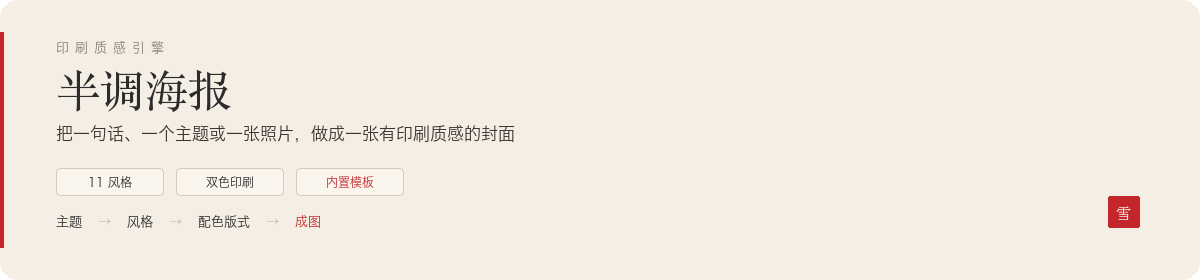
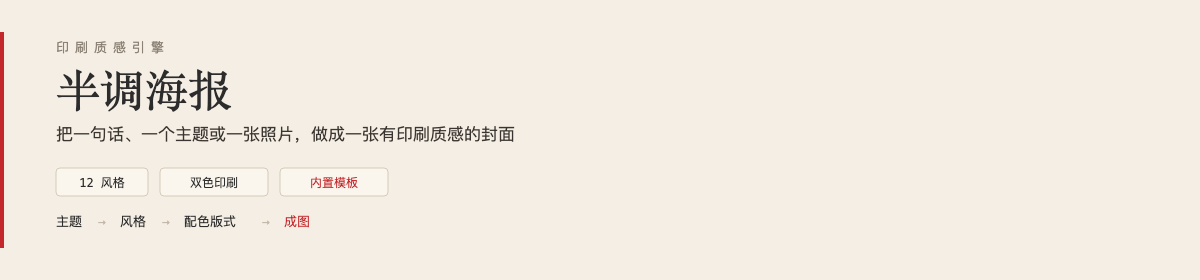
docs: 介绍页头图与成图墙
按 taxue-creative-style 的阅读顺序重做 README：无印章头图、成图标本墙、可点原图。风格表与已发布的十二种风格 + 两个变体对齐。

diff --git a/README.en.md b/README.en.md
@@ -1,92 +1,85 @@
 <p align="center">
 
-![Taxue Halftone Poster: a print-feel image engine. Turn a phrase, a theme, or a photo into a print-feel poster or cover.](./assets/readme/hero.png)
+![Taxue Halftone: a print-feel engine. Turn a phrase, a theme, or a photo into a print-feel cover.](./assets/readme/hero.png)
 
 </p>
-
-<div align="center">
-
-[中文](./README.md) · **English**
-
-# taxue-halftone · Halftone Poster
-
-**Turn a phrase, a theme, or a photo into a print-feel poster or cover.**
-
-[![Version](https://img.shields.io/badge/VERSION-1.4.2-2ea44f?style=flat-square&labelColor=333)](./CHANGELOG.md)
-[![Skills](https://img.shields.io/badge/SKILLS-1-2ea44f?style=flat-square&labelColor=333)](./SKILL.md)
-[![Stars](https://img.shields.io/github/stars/taxueseek/taxue-halftone?style=flat-square&label=STARS&color=e37f2c&labelColor=333)](https://github.com/taxueseek/taxue-halftone/stargazers)
-[![Validate](https://github.com/taxueseek/taxue-halftone/actions/workflows/validate.yml/badge.svg)](https://github.com/taxueseek/taxue-halftone/actions/workflows/validate.yml)
-[![SKILL.md](https://img.shields.io/badge/Agent-SKILL.md-214f9b?style=flat-square&labelColor=333)](./SKILL.md)
-
-</div>
 
 <p align="center">
-  <a href="#examples">Examples</a> ·
-  <a href="#eleven-styles--one-variant">Styles</a> ·
-  <a href="#how-to-use">How to use</a> ·
-  <a href="#use-cases">Use cases</a> ·
-  <a href="#basic-rules">Basic rules</a> ·
-  <a href="#validation">Validation</a> ·
-  <a href="#changelog">Changelog</a>
+  <a href="./README.md">中文</a> ·
+  <a href="#specimens">Specimens</a> ·
+  <a href="#twelve-styles--two-variants">Styles</a> ·
+  <a href="#how-it-works">How it works</a> ·
+  <a href="#how-to-use">Get started</a>
 </p>
 
-## The taxue image series
+# Taxue Halftone
 
-Part of the taxue image-generation series — pick the right engine:
+Turn a phrase, a theme, or a photo into a print-feel cover.
+
+## Image-generation family
+
+Same family — pick the right skill:
 
 | Skill | One-liner | Repo |
 |---|---|---|
-| **Taxue Creative Style** (image style engine) | 14 families, 77 variants: render by style, refine prompts, write from scratch, remember preferences | [taxue-creative-style](https://github.com/taxueseek/taxue-creative-style) |
-| **Halftone Poster** (print-feel engine) | 11 styles + 1 variant: a phrase, theme, or photo becomes a print-feel cover | **You are here** · [taxue-halftone](https://github.com/taxueseek/taxue-halftone) |
-| **Solar Polaroid** (seasonal creation engine) | Solar terms, festivals, phenology phrases become memorable posters, paper archives, polaroids | [taxue-solar-polaroid](https://github.com/taxueseek/taxue-solar-polaroid) |
+| **taxue-creative-style** (image-style engine) | 14 families, 77 variants: by-style generation, prompt rewriting, from-scratch, remember preferences | [taxue-creative-style](https://github.com/taxueseek/taxue-creative-style) |
+| **Halftone** (print-feel engine) | 12 styles + 2 variants: a phrase, a theme, or a photo into a print-feel cover | **You are here** · [taxue-halftone](https://github.com/taxueseek/taxue-halftone) |
+| **taxue-solar-polaroid** (solar-term engine) | Solar terms, festivals, phenology lines → posters, paper archives, polaroids | [taxue-solar-polaroid](https://github.com/taxueseek/taxue-solar-polaroid) |
+| **taxue-imagegen** (meta-prompt library) | Four types + four workflows + mechanical slot fill + one-shot verify | WorkBuddy-exclusive · [taxue-imagegen](https://github.com/taxueseek/taxue-imagegen) |
 
-This skill makes "print-feel" images: halftone dots, Riso, woodcut, cyanotype, aizome (indigo dyeing), photocopy aesthetics. It defaults to two colors (one dominant, one accent), or a single color on request. It decides the palette, layout, and typography for you, and outputs a complete reusable prompt.
+It makes print-feel images: halftone dots, Riso, woodcut, cyanotype, photocopy grain. Defaults to two inks (one dominant, one accent), or a single color on request. Palette, type, and layout are decided for you, then you get a complete reusable prompt.
 
-## Examples
+## Specimens
+
+Ten styles have samples. Click a title for the original.
+
+![Nine print-feel specimens: editorial, archival, Swiss, filmstack, Polish, aizome, imperfect collage, dot dissolve, Chinese paper-cut](./assets/readme/styles-grid.jpg)
+
+<p align="center">
+<a href="./examples/example-midnight-store.jpg">Midnight store</a> ·
+<a href="./examples/example-herbarium.png">Herbarium</a> ·
+<a href="./examples/example-concert-hall.jpg">Silent Order</a> ·
+<a href="./examples/example-midnight-radio.png">Midnight Radio</a> ·
+<a href="./examples/example-echo.png">Echo</a> ·
+<a href="./examples/example-aizome-near-far.jpg">Near and Far</a> ·
+<a href="./examples/example-rain-umbrella.png">Rain umbrella</a> ·
+<a href="./examples/example-dot-dissolve-lighthouse.jpg">Lighthouse in fog</a> ·
+<a href="./examples/example-paper-cut-group-sea-sky.jpg">Sea and sky</a>
+</p>
+
+The same print languages, other pictures.
+
+![More specimens: Riso zine, dot dissolve, imperfect collage, editorial, aizome](./assets/readme/more-grid.jpg)
+
+<p align="center">
+<a href="./examples/example-seashell.png">Sea Breeze</a> ·
+<a href="./examples/example-dot-dissolve-jellyfish.jpg">Lantern of the deep</a> ·
+<a href="./examples/example-dot-dissolve-fenghuaxueyue.jpg">Feng Hua Xue Yue</a> ·
+<a href="./examples/example-night-walk.png">Night walk</a> ·
+<a href="./examples/example-night-ride.png">Night ride</a> ·
+<a href="./examples/example-break-limits.jpg">Break Limits</a> ·
+<a href="./examples/example-still-open.jpg">Still Open</a> ·
+<a href="./examples/example-solitude.jpg">SOLITUDE</a> ·
+<a href="./examples/example-aizome-blue-knight.jpg">Blue Knight</a> ·
+<a href="./examples/example-last-kilometer.jpg">The Last Kilometer</a> ·
+<a href="./examples/README.md">All originals</a>
+</p>
 
 > Images live in the `examples/` directory and are generated by this skill (see [ASSET-LICENSE.md](./ASSET-LICENSE.md)). Ten of the twelve styles and both variants have samples — imperfect collage and dot dissolve three each, editorial five (including two bilingual variants), aizome two, one for the rest; tribute, polka and both variants (dot paper-cut, aizome photogram) have none yet.
-
-| Midnight store (Vintage editorial) | Herbarium (Archival) | Silent Order (Swiss) |
-|:---:|:---:|:---:|
-| <img src="./examples/example-midnight-store.jpg" alt="Blue and orange midnight convenience store halftone poster" width="280"> | <img src="./examples/example-herbarium.png" alt="Green herbarium specimen print poster" width="280"> | <img src="./examples/example-concert-hall.jpg" alt="Red architectural photography exhibition poster" width="280"> |
-
-| Midnight Radio (Filmstack) | Echo (Polish) | Sea Breeze (Riso zine) |
-|:---:|:---:|:---:|
-| <img src="./examples/example-midnight-radio.png" alt="Blue film-stack midnight radio poster" width="280"> | <img src="./examples/example-echo.png" alt="Black high-contrast echo poster" width="280"> | <img src="./examples/example-seashell.png" alt="Green and violet seashell zine cover" width="280"> |
-
-| Rain umbrella (Imperfect collage) | Night walk (Imperfect collage) | Night ride (Imperfect collage) |
-|:---:|:---:|:---:|
-| <img src="./examples/example-rain-umbrella.png" alt="Blue and black torn-paper collage rain umbrella poster" width="280"> | <img src="./examples/example-night-walk.png" alt="Blue torn-paper collage city night walk poster" width="280"> | <img src="./examples/example-night-ride.png" alt="Blue torn-paper collage night ride poster" width="280"> |
-
-| Lighthouse in fog (Dot dissolve) | Lantern of the deep (Dot dissolve) | Feng Hua Xue Yue (Dot dissolve) |
-|:---:|:---:|:---:|
-| <img src="./examples/example-dot-dissolve-lighthouse.jpg" alt="Blue and orange dot-matrix lighthouse-in-fog poster" width="280"> | <img src="./examples/example-dot-dissolve-jellyfish.jpg" alt="Blue and orange-red dot-matrix jellyfish poster" width="280"> | <img src="./examples/example-dot-dissolve-fenghuaxueyue.jpg" alt="Blue-black mountains with vermilion moon dot-matrix poster" width="280"> |
-
-| Sea and sky (Chinese paper-cut) | Break Limits (Vintage editorial) | The Last Kilometer (editorial, bilingual variant) |
-|:---:|:---:|:---:|
-| <img src="./examples/example-paper-cut-group-sea-sky.jpg" alt="Charcoal paper-cut sea, sky and fish with one pink jump-color member, Chinese paper-cut poster" width="280"> | <img src="./examples/example-break-limits.jpg" alt="Blue and red two-ink halftone Break Limits poster" width="280"> | <img src="./examples/example-last-kilometer.jpg" alt="Blue and orange halftone The Last Kilometer bilingual poster" width="280"> |
-
-| Still Open (editorial, bilingual variant) | Solitude (Vintage editorial) | Near and Far (Aizome) |
-|:---:|:---:|:---:|
-| <img src="./examples/example-still-open.jpg" alt="Deep blue and orange halftone Still Open convenience store bilingual poster" width="280"> | <img src="./examples/example-solitude.jpg" alt="Deep blue halftone Solitude poster" width="280"> | <img src="./examples/example-aizome-near-far.jpg" alt="Indigo aizome Near and Far poster" width="280"> |
-
-| Blue Knight (Aizome) |  |  |
-|:---:|:---:|:---:|
-| <img src="./examples/example-aizome-blue-knight.jpg" alt="Indigo aizome Blue Knight speed poster" width="280"> |  |  |
 
 ## Twelve styles + two variants
 
 | Style | Swatch | What it looks like |
 |---|---|---|
-| **Editorial** | ![editorial](./swatches/editorial.svg) | Blue + terracotta, halftone dots, one dominant object with type crossing over it. The default. Built-in concise meta prompt (topic is the only required input) |
-| **Polish** | ![polish](./swatches/polish.svg) | Single-color high contrast, the type is the image, clean and sharp |
-| **Swiss** | ![swiss](./swatches/swiss.svg) | Red + black, clear photo tones, solid type, generous white space, restrained |
-| **Riso zine** | ![riso_zine](./swatches/riso_zine.svg) | Green + violet, small subject, lots of paper, like a hand-printed zine |
-| **Filmstack** | ![filmstack](./swatches/filmstack.svg) | Blue + orange, coarse dots as the graphic itself, layered sheets in a wide frame |
-| **Archival** | ![archival](./swatches/archival.svg) | Green + black, title + one tidy plate + multi-column notes, like a specimen field note |
-| **Imperfect collage** | ![imperfect_collage](./swatches/imperfect_collage.svg) | Warm-white paper + large spot-color field + B/W halftone subject, torn edges as reveal, image above / info card below, intentionally imperfect |
-| **Dot dissolve** | ![dot_dissolve](./swatches/dot_dissolve.svg) | Aubergine + signal red, retro silkscreen round-dot matrix, the subject deconstructs into dots, grain and flowing ripples, bold type fused with the dot field, built-in meta prompt (topic is the only required input) |
-| **Chinese paper-cut** | ![paper_cut_group](./swatches/paper_cut_group.svg) | Charcoal + vermilion, layered knife-cut silhouettes with white negative-space cutout details, one jump-color exception member, image above / info card below, built-in meta prompt (topic is the only required input) |
+| **Editorial** (editorial) | ![editorial](./swatches/editorial.svg) | Blue + terracotta, halftone dots, one dominant object with type crossing over it. The default. Built-in concise meta prompt (topic is the only required input) |
+| **Polish** (polish) | ![polish](./swatches/polish.svg) | Single-color high contrast, the type is the image, clean and sharp |
+| **Swiss** (swiss) | ![swiss](./swatches/swiss.svg) | Red + black, clear photo tones, solid type, generous white space, restrained |
+| **Riso zine** (riso_zine) | ![riso_zine](./swatches/riso_zine.svg) | Green + violet, small subject, lots of paper, like a hand-printed zine |
+| **Filmstack** (filmstack) | ![filmstack](./swatches/filmstack.svg) | Blue + orange, coarse dots as the graphic itself, layered sheets in a wide frame |
+| **Archival** (archival) | ![archival](./swatches/archival.svg) | Green + black, title + one tidy plate + multi-column notes, like a specimen field note |
+| **Imperfect collage** (imperfect_collage) | ![imperfect_collage](./swatches/imperfect_collage.svg) | Warm-white paper + large spot-color field + B/W halftone subject, torn edges as reveal, image above / info card below, intentionally imperfect |
+| **Dot dissolve** (dot_dissolve) | ![dot_dissolve](./swatches/dot_dissolve.svg) | Aubergine + signal red, retro silkscreen round-dot matrix, the subject deconstructs into dots, grain and flowing ripples, bold type fused with the dot field, built-in meta prompt (topic is the only required input) |
+| **Chinese paper-cut** (paper_cut_group) | ![paper_cut_group](./swatches/paper_cut_group.svg) | Charcoal + vermilion, layered knife-cut silhouettes with white negative-space cutout details, one jump-color exception member, image above / info card below, built-in meta prompt (topic is the only required input) |
 | **Dot paper-cut** (paper_cut_halftone, variant) | ![paper_cut_halftone](./swatches/paper_cut_halftone.svg) | Main ink + paper + one muted jump color, a hybrid of dot dissolve and Chinese paper-cut — window-flower contours filled with coarse round halftone dots, open shadows, three palette options, image above / info card below, built-in meta prompt (topic is the only required input) |
 | **Aizome** (aizome) | ![aizome](./swatches/aizome.svg) | Absolutely pure white digital plane + deep indigo + cobalt, cyanotype-style flat-value silhouette, dye tonal depth and woodblock hatching live only inside the blue shapes, headline + subline vary across a nine-direction grid, built-in meta prompt (topic is the only required input) |
 | **Aizome photogram** (aizome_photogram, variant) | ![aizome_photogram](./swatches/aizome_photogram.svg) | Anti-cliché aizome: indigo field with white photogram silhouettes of modern objects (skateboard / headphones / sneakers) exposed flat on the sheet, water-wash bleed only in blue zones, exhibition-case temperament, built-in meta prompt (object required) |
@@ -95,9 +88,15 @@ This skill makes "print-feel" images: halftone dots, Riso, woodcut, cyanotype, a
 
 Name the style you want; if you don't, it picks one from your subject and intent.
 
-## How to use
+## How it works
 
-Install:
+<p align="center">
+  <img src="./assets/readme/workflow.svg" width="100%" alt="From a phrase to a print-feel cover: hear the intent, pick a style, lock ink and layout, generate and check">
+</p>
+
+Input is your intent. Output is a prompt the model can run. Whether the picture works depends on four things: whether it heard you, whether the style is right, whether ink and type/image volume are locked, and whether the result was checked against the six axes.
+
+## How to use
 
 ```bash
 npx skills add taxueseek/taxue-halftone
@@ -122,7 +121,7 @@ You can also type `/taxue-halftone` to trigger it. Each run returns three things
 
 ## Basic rules
 
-- **At most two colors**: one dominant color carries the subject and headline; one accent color has exactly one job (date, annotation, marking one object). Never sprinkle the accent color around as decoration.
+- **Disciplined palettes**: the default is two inks — a dominant color carries the subject and headline; one accent color has exactly one job (date, annotation, marking one object), never sprinkled around as decoration. Color-rich styles (tribute, polka) follow their own family rules: every color has a duty, hierarchy is explicit, even splitting is banned.
 - **Paper is part of the image**: the ground is not a color. Light paper with dark ink, dark paper with light type, both work.
 - **Type and image take turns**: when type is loud, the image steps back, and vice versa. Never both at full volume.
 - **Print feel comes from dots, not aging**: halftone and Riso do not mean yellowed, sepia, or nostalgic by default.
@@ -148,15 +147,14 @@ scripts/render_style_card.py <style_id> # regenerate the swatch card
 
 ## Changelog
 
-- **v1.4.2** (2026-09-05): All style display names unified to natural language ("XX style", style IDs unchanged); the "quick path" wording became "concise flow"; all swatch cards regenerated; polka (new mechanism polka_field + new behavior field) and aizome photogram (aizome variant) enter the release line for the first time (developed at 1.4.0 but never shipped with 1.2.0–1.4.1); the source-of-truth tree and the release repo are aligned; evaluations up to 14. See [CHANGELOG.md](./CHANGELOG.md).
-
-- **v1.4.1** (2026-09-04): Sample gallery expanded — six new real samples: Break Limits, The Last Kilometer (editorial, bilingual variant), Still Open (editorial, bilingual variant), Solitude (editorial), Near and Far and Blue Knight (aizome); the aizome style now has samples; all samples stripped of generation metadata (EXIF tracking fields and AI labels), pixels untouched.
-- **v1.4.0** (2026-09-04): Punctuation hard rules applied to all built-in meta prompts; editorial concise meta prompt (classic halftone, topic as the only required input) plus bilingual variant (still open / 营业中); new style 10 `aizome` (indigo dye poster) and style 11 `tribute` (classic tribute); design system gains `ground_pure_white`; evaluations up to 11 cases. See [CHANGELOG.md](./CHANGELOG.md).
-- **v1.3.0** (2026-09-03): Reference-creation mode (§1.6) — when the user provides a reference image, first classify its role: same fingerprint locks the matching style's six axes as the starting point; mechanism migration takes 2–4 visible mechanisms plus a hollowing-out test. See [CHANGELOG.md](./CHANGELOG.md).
-- **v1.2.0** (2026-09-03): Image-source diagnosis (§1.5) — five-line diagnostic card from the photo, then axis values from a feature mapping table; four-domain propositions; Chinese display glyph quick reference (§4.5, 6 families); ablation tooling `ablate.py` / `checker.py`. See [CHANGELOG.md](./CHANGELOG.md).
-- **v1.1.0** (2026-09-03): New styles 7–9 — `imperfect_collage`, `dot_dissolve`, `paper_cut_group` (Chinese paper-cut) — plus a seventh print mechanism `paper_cut_collage`, each with a built-in meta prompt; also the variant `paper_cut_halftone` (Dot paper-cut — a hybrid of dot dissolve and Chinese paper-cut); four real samples (Lighthouse in Fog, Lantern of the Deep, Feng Hua Xue Yue, Sea and Sky — the last one for Chinese paper-cut); new "Randomness and creativity" section with model recommendations; renamed styles — Paper-cut group → Chinese paper-cut, Paper-cut halftone → Dot paper-cut (now defined as a variant), style IDs unchanged. See [CHANGELOG.md](./CHANGELOG.md).
-- **v1.0.0** (2026-09-01): Initial release. Six styles, machine validation, and evaluation cases. See [CHANGELOG.md](./CHANGELOG.md).
+- **v1.4.2** (2026-09-05): Style names unified; polka and aizome photogram enter the release line. See [CHANGELOG.md](./CHANGELOG.md).
+- **v1.4.1** (2026-09-04): Six new real samples; generation metadata stripped.
+- **v1.4.0** (2026-09-04): Punctuation hard rules; new styles `aizome` and `tribute`. See [CHANGELOG.md](./CHANGELOG.md).
+- **v1.3.0** (2026-09-03): Reference-creation mode. See [CHANGELOG.md](./CHANGELOG.md).
+- **v1.2.0** (2026-09-03): Image-source diagnosis, four-domain propositions, Chinese display glyph quick reference. See [CHANGELOG.md](./CHANGELOG.md).
+- **v1.1.0** (2026-09-03): New styles imperfect collage, dot dissolve, Chinese paper-cut, and the dot paper-cut variant. See [CHANGELOG.md](./CHANGELOG.md).
+- **v1.0.0** (2026-09-01): Initial release. See [CHANGELOG.md](./CHANGELOG.md).
 
 ## License
 
-Code and skill content are MIT-licensed ([LICENSE](./LICENSE)); images in `examples/` follow [ASSET-LICENSE.md](./ASSET-LICENSE.md) and are not covered by MIT.
+Code and skill content are MIT-licensed ([LICENSE](./LICENSE)); images in `examples/` and `assets/readme/` follow [ASSET-LICENSE.md](./ASSET-LICENSE.md) and are not covered by MIT.

diff --git a/README.md b/README.md
@@ -4,31 +4,17 @@
 
 </p>
 
-<div align="center">
-
-**中文** · [English](./README.en.md)
-
-# taxue-halftone · 半调海报
-
-**把一句话、一个主题或一张照片，做成一张有印刷质感的封面。**
-
-[![Version](https://img.shields.io/badge/VERSION-1.4.2-2ea44f?style=flat-square&labelColor=333)](./CHANGELOG.md)
-[![Skills](https://img.shields.io/badge/SKILLS-1-2ea44f?style=flat-square&labelColor=333)](./SKILL.md)
-[![Stars](https://img.shields.io/github/stars/taxueseek/taxue-halftone?style=flat-square&label=STARS&color=e37f2c&labelColor=333)](https://github.com/taxueseek/taxue-halftone/stargazers)
-[![Validate](https://github.com/taxueseek/taxue-halftone/actions/workflows/validate.yml/badge.svg)](https://github.com/taxueseek/taxue-halftone/actions/workflows/validate.yml)
-[![SKILL.md](https://img.shields.io/badge/Agent-SKILL.md-214f9b?style=flat-square&labelColor=333)](./SKILL.md)
-
-</div>
-
 <p align="center">
-  <a href="#示例作品">示例作品</a> ·
-  <a href="#十一种风格">风格</a> ·
-  <a href="#怎么用">怎么用</a> ·
-  <a href="#适合做什么">适合做什么</a> ·
-  <a href="#基本规矩">基本规矩</a> ·
-  <a href="#工程校验">工程校验</a> ·
-  <a href="#更新记录">更新记录</a>
+  <a href="./README.en.md">English</a> ·
+  <a href="#成图标本">成图</a> ·
+  <a href="#十二种风格--两个变体">风格</a> ·
+  <a href="#怎么工作">怎么工作</a> ·
+  <a href="#开始使用">开始使用</a>
 </p>
+
+# 踏雪半调海报
+
+把一句话、一个主题或一张照片，做成一张有印刷质感的封面。
 
 ## 生图技能家族
 
@@ -37,42 +23,49 @@
 | 技能 | 一句话 | 仓库 |
 |---|---|---|
 | **踏雪创意风格**（影像风格引擎） | 14 个家族、77 个变体：按风格出图、改提示词、从零写、记住偏好 | [taxue-creative-style](https://github.com/taxueseek/taxue-creative-style) |
-| **半调海报**（印刷质感引擎） | 11 种风格 + 1 个变体：一句话、一个主题或一张照片，做成印刷感封面 | **你在这里** · [taxue-halftone](https://github.com/taxueseek/taxue-halftone) |
+| **半调海报**（印刷质感引擎） | 12 种风格 + 2 个变体：一句话、一个主题或一张照片，做成印刷感封面 | **你在这里** · [taxue-halftone](https://github.com/taxueseek/taxue-halftone) |
 | **节气拍立得**（节气创作引擎） | 节气、节日、物候短句，推出有记忆点的海报、纸本档案与拍立得 | [taxue-solar-polaroid](https://github.com/taxueseek/taxue-solar-polaroid) |
+| **踏雪生图**（元提示词库） | 四种类型 + 四种工作流 + 机械填槽 + 一次验收 | WorkBuddy 专属 · [taxue-imagegen](https://github.com/taxueseek/taxue-imagegen) |
 
-它做的是「印刷感」的图：半调网点、Riso 孔版、木刻、蓝晒、复印机那种质感。默认双色（一主一辅），也可以只用单色，具体怎么配色、字放哪，它都会配好，最后给出一份完整可复用的提示词。
+它做的是「印刷感」的图：半调网点、Riso 孔版、木刻、蓝晒、复印机那种质感。默认双色（一主一辅），也可以只用单色。配色、字放哪，它会配好，最后给你一份完整可复用的提示词。
 
-## 示例作品
+## 成图标本
+
+十种风格各有样张。点题名看原图。
+
+![九种印刷风格成图：复古编辑、标本档案、瑞士海报、胶片叠层、波兰海报、蓝染、不完美印刷拼贴、点阵解构、中式剪纸](./assets/readme/styles-grid.jpg)
+
+<p align="center">
+<a href="./examples/example-midnight-store.jpg">深夜便利店</a> ·
+<a href="./examples/example-herbarium.png">标本档案</a> ·
+<a href="./examples/example-concert-hall.jpg">无声的秩序</a> ·
+<a href="./examples/example-midnight-radio.png">午夜电台</a> ·
+<a href="./examples/example-echo.png">回声</a> ·
+<a href="./examples/example-aizome-near-far.jpg">咫尺天涯</a> ·
+<a href="./examples/example-rain-umbrella.png">雨天雨伞</a> ·
+<a href="./examples/example-dot-dissolve-lighthouse.jpg">雾中灯塔</a> ·
+<a href="./examples/example-paper-cut-group-sea-sky.jpg">海阔天空</a>
+</p>
+
+同一套印刷语言，还可以长成这些样子。
+
+![更多成图：孔版小册、点阵解构、不完美印刷拼贴、复古编辑、蓝染](./assets/readme/more-grid.jpg)
+
+<p align="center">
+<a href="./examples/example-seashell.png">海风集</a> ·
+<a href="./examples/example-dot-dissolve-jellyfish.jpg">深海之灯</a> ·
+<a href="./examples/example-dot-dissolve-fenghuaxueyue.jpg">风花雪月</a> ·
+<a href="./examples/example-night-walk.png">城市夜归</a> ·
+<a href="./examples/example-night-ride.png">夜骑</a> ·
+<a href="./examples/example-break-limits.jpg">突破极限</a> ·
+<a href="./examples/example-still-open.jpg">营业中</a> ·
+<a href="./examples/example-solitude.jpg">SOLITUDE</a> ·
+<a href="./examples/example-aizome-blue-knight.jpg">蓝色骑士</a> ·
+<a href="./examples/example-last-kilometer.jpg">最后一公里</a> ·
+<a href="./examples/README.md">全部原图</a>
+</p>
 
 > 图片放在 `examples/` 目录，由技能实际出图产出（版权见 [ASSET-LICENSE.md](./ASSET-LICENSE.md)）。十二种风格与两个变体中十个有示例图：不完美印刷拼贴与点阵解构各有三张，复古编辑五张（含双语变体两张），蓝染两张，其余风格各一张；经典致敬、波普波点与两种变体（点阵剪纸、物影蓝晒）暂无样张。
-
-| 深夜便利店（复古编辑） | 标本档案（标本档案） | 无声的秩序（瑞士海报） |
-|:---:|:---:|:---:|
-| <img src="./examples/example-midnight-store.jpg" alt="蓝橙双色深夜便利店半调海报" width="280"> | <img src="./examples/example-herbarium.png" alt="绿色标本档案印刷海报" width="280"> | <img src="./examples/example-concert-hall.jpg" alt="红色摄影展海报无声的秩序" width="280"> |
-
-| 午夜电台（胶片叠层） | 回声（波兰海报） | 海风集（孔版小册） |
-|:---:|:---:|:---:|
-| <img src="./examples/example-midnight-radio.png" alt="蓝色胶片叠层午夜电台海报" width="280"> | <img src="./examples/example-echo.png" alt="黑色高反差回声海报" width="280"> | <img src="./examples/example-seashell.png" alt="绿色紫色海风集封面" width="280"> |
-
-| 雨天雨伞（不完美印刷拼贴） | 城市夜归（不完美印刷拼贴） | 夜骑（不完美印刷拼贴） |
-|:---:|:---:|:---:|
-| <img src="./examples/example-rain-umbrella.png" alt="蓝黑撕纸拼贴雨天雨伞海报" width="280"> | <img src="./examples/example-night-walk.png" alt="蓝色撕纸拼贴城市夜归海报" width="280"> | <img src="./examples/example-night-ride.png" alt="蓝色撕纸拼贴夜骑海报" width="280"> |
-
-| 雾中灯塔（点阵解构） | 深海之灯（点阵解构） | 风花雪月（点阵解构） |
-|:---:|:---:|:---:|
-| <img src="./examples/example-dot-dissolve-lighthouse.jpg" alt="蓝色与橙色点阵解构雾中灯塔海报" width="280"> | <img src="./examples/example-dot-dissolve-jellyfish.jpg" alt="蓝色与橙红点阵解构深海之灯水母海报" width="280"> | <img src="./examples/example-dot-dissolve-fenghuaxueyue.jpg" alt="蓝黑山水与朱红月位点阵解构风花雪月海报" width="280"> |
-
-| 海阔天空（中式剪纸） | 突破极限（复古编辑） | 最后一公里（复古编辑·双语变体） |
-|:---:|:---:|:---:|
-| <img src="./examples/example-paper-cut-group-sea-sky.jpg" alt="蓝黑剪纸山海鱼群与粉色跳色中式剪纸海报" width="280"> | <img src="./examples/example-break-limits.jpg" alt="蓝红双色半调突破极限海报" width="280"> | <img src="./examples/example-last-kilometer.jpg" alt="蓝橙双色半调最后一公里双语海报" width="280"> |
-
-| 营业中（复古编辑·双语变体） | SOLITUDE（复古编辑） | 咫尺天涯（蓝染） |
-|:---:|:---:|:---:|
-| <img src="./examples/example-still-open.jpg" alt="深蓝橙半调营业中便利店双语海报" width="280"> | <img src="./examples/example-solitude.jpg" alt="深蓝半调SOLITUDE空旷海报" width="280"> | <img src="./examples/example-aizome-near-far.jpg" alt="靛蓝蓝染咫尺天涯海报" width="280"> |
-
-| 蓝色骑士（蓝染） |  |  |
-|:---:|:---:|:---:|
-| <img src="./examples/example-aizome-blue-knight.jpg" alt="靛蓝蓝染蓝色骑士极速抵达海报" width="280"> |  |  |
 
 ## 十二种风格 + 两个变体
 
@@ -95,9 +88,15 @@
 
 想用哪个风格，直接点名；不说风格它会按主题和用途选。
 
-## 怎么用
+## 怎么工作
 
-安装：
+<p align="center">
+  <img src="./assets/readme/workflow.svg" width="100%" alt="从一句话到印刷感封面：听清意图、选定风格、配色版式、出图自检">
+</p>
+
+输入是你的意图，输出是能直接出图的提示词。图好不好，取决于四件事：有没有听清你要什么、风格选得对不对、墨色和字图音量有没有锁死、出图后有没有对照六轴检查。
+
+## 开始使用
 
 ```bash
 npx skills add taxueseek/taxue-halftone
@@ -122,7 +121,7 @@ npx skills add taxueseek/taxue-halftone
 
 ## 基本规矩
 
-- **最多双色**：一个主色管主体和标题，一个辅色只做一件事（日期、注释、勾一个物件），不洒满页当装饰
+- **配色讲纪律**：默认限墨双色——主色管主体和标题，辅色只做一件事（日期、注释、勾一个物件），不洒满页当装饰；色彩丰富的风格（经典致敬、波普波点）按各自族规执行：每色有职务、主次分明、禁止平均分配
 - **纸是画面的一部分**：底色不算颜色，浅色纸配深色、深纸配浅字都算好
 - **字和图分主次**：字大声图就退，图大声字就退，不两个都抢
 - **印刷感靠网点不靠做旧**：用半调、Riso 不等于要泛黄、怀旧
@@ -148,15 +147,14 @@ scripts/render_style_card.py <style_id> # 重新生成色卡图
 
 ## 更新记录
 
-- **v1.4.2**（2026-09-05）：全部风格名统一为自然语言「XX风格」（style_id 不变），「快速路」表述改为「精简流程」，色卡全部重渲；波普波点（polka，新机制 polka_field + 新行为 field）与物影蓝晒（aizome_photogram，蓝染变体）首次进入发布线（1.4.0 时已开发、未随 1.2.0–1.4.1 发布）；真源与发布仓内容对齐，评测用例补到第 14 条。详见 [CHANGELOG.md](./CHANGELOG.md)。
-
-- **v1.4.1**（2026-09-04）：示例图集扩充——新增六张实测样张：突破极限、最后一公里（复古编辑·双语变体）、营业中（复古编辑·双语变体）、SOLITUDE（复古编辑）、咫尺天涯与蓝色骑士（蓝染），蓝染风格补齐样张；全部样张剥离生成元数据（EXIF 追踪字段与 AI 标识），只保留像素。
-- **v1.4.0**（2026-09-04）：文案标点硬约束全面落地；editorial 内置精炼元提示词模板（经典半调，只输入主题即可出图）+ 中英双文案变体（still open / 营业中）；新增第十套风格 aizome（蓝染艺术海报风格）与第十一套风格 tribute（经典致敬风格），设计系统新增 ground_pure_white（数字纯白）；评测用例补到第 11 条。详见 [CHANGELOG.md](./CHANGELOG.md)。
-- **v1.3.0**（2026-09-03）：参考创作模式（§1.6），用户提供参考图时先判角色——同指纹则锁定对应风格六轴为起点，机制迁移走 2–4 个可见机制 + 掏空判定。详见 [CHANGELOG.md](./CHANGELOG.md)。
-- **v1.2.0**（2026-09-03）：图源输入诊断（§1.5）——照片先写五行诊断卡再按特征映射表取六轴值；四域命题落账设计判断；中文展示字形速查（§4.5）6 谱系；消融工具 ablate.py / checker.py。详见 [CHANGELOG.md](./CHANGELOG.md)。
-- **v1.1.0**（2026-09-03）：新增第七至第九套风格 imperfect_collage（不完美印刷拼贴）、dot_dissolve（点阵解构海报风格）、paper_cut_group（中式剪纸风格）与第七种印刷机制 paper_cut_collage（剪纸拼贴），均内置元提示词模板；另新增变体 paper_cut_halftone（点阵剪纸风格——点阵解构与中式剪纸的混搭）；补四张实测样张（雾中灯塔、深海之灯、风花雪月、海阔天空，其中海阔天空为中式剪纸样张）；新增「随机性与创造力」说明与生图模型建议；风格更名——中式剪纸群像→中式剪纸、网点剪纸群像→点阵剪纸（定性为变体），style_id 不变。详见 [CHANGELOG.md](./CHANGELOG.md)。
+- **v1.4.2**（2026-09-05）：风格名统一为「XX风格」；波普波点与物影蓝晒进入发布线。详见 [CHANGELOG.md](./CHANGELOG.md)。
+- **v1.4.1**（2026-09-04）：示例图集扩充六张实测样张，并剥离生成元数据。
+- **v1.4.0**（2026-09-04）：文案标点硬约束落地；新增蓝染与经典致敬。详见 [CHANGELOG.md](./CHANGELOG.md)。
+- **v1.3.0**（2026-09-03）：参考创作模式。详见 [CHANGELOG.md](./CHANGELOG.md)。
+- **v1.2.0**（2026-09-03）：图源输入诊断、四域命题、中文展示字形速查。详见 [CHANGELOG.md](./CHANGELOG.md)。
+- **v1.1.0**（2026-09-03）：新增不完美印刷拼贴、点阵解构、中式剪纸与点阵剪纸变体。详见 [CHANGELOG.md](./CHANGELOG.md)。
 - **v1.0.0**（2026-09-01）：首次发布。六种风格、六种印刷质感、机器校验和评测用例。详见 [CHANGELOG.md](./CHANGELOG.md)。
 
 ## License
 
-代码和技能内容走 [MIT License](./LICENSE)；`examples/` 里的示例图走 [ASSET-LICENSE.md](./ASSET-LICENSE.md)，不随 MIT 分发。
+代码和技能内容走 [MIT License](./LICENSE)；`examples/` 里的示例图与 `assets/readme/` 头图、成图墙走 [ASSET-LICENSE.md](./ASSET-LICENSE.md)，不随 MIT 分发。
